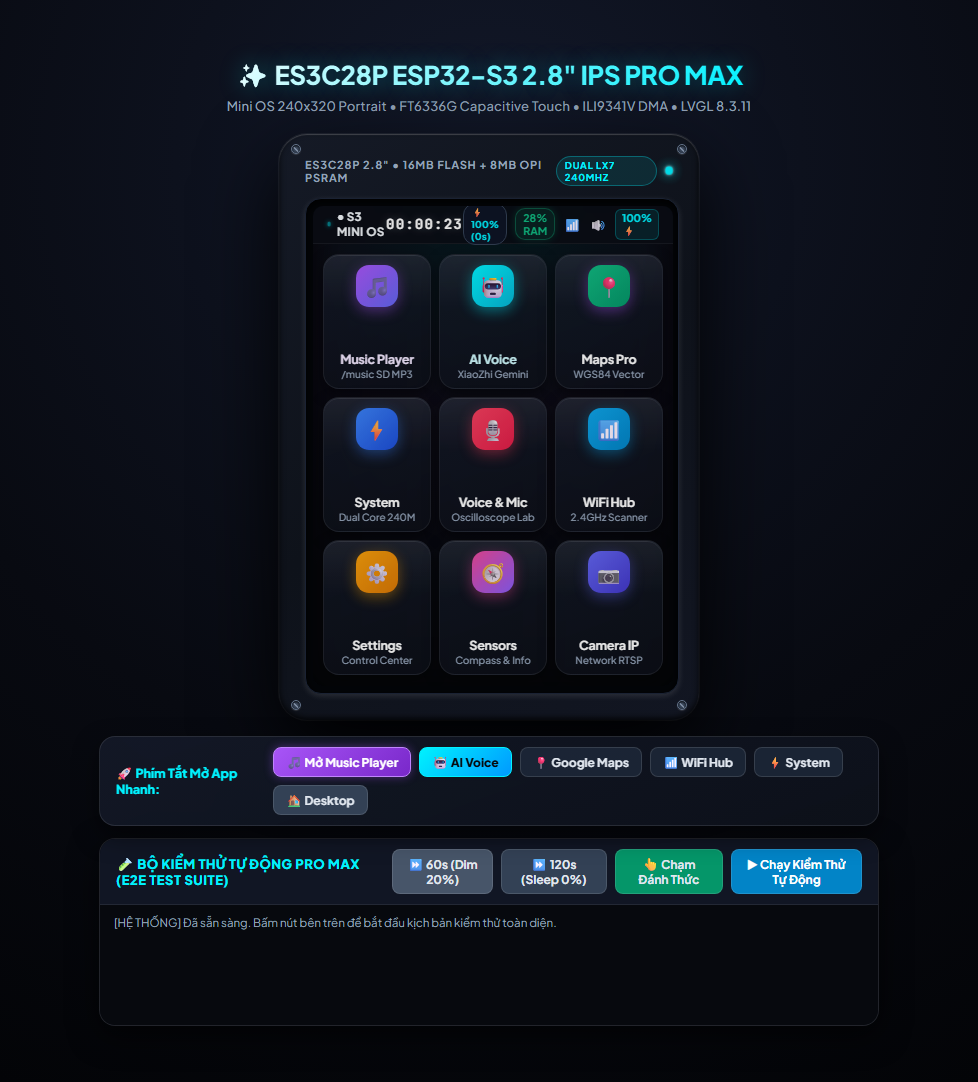
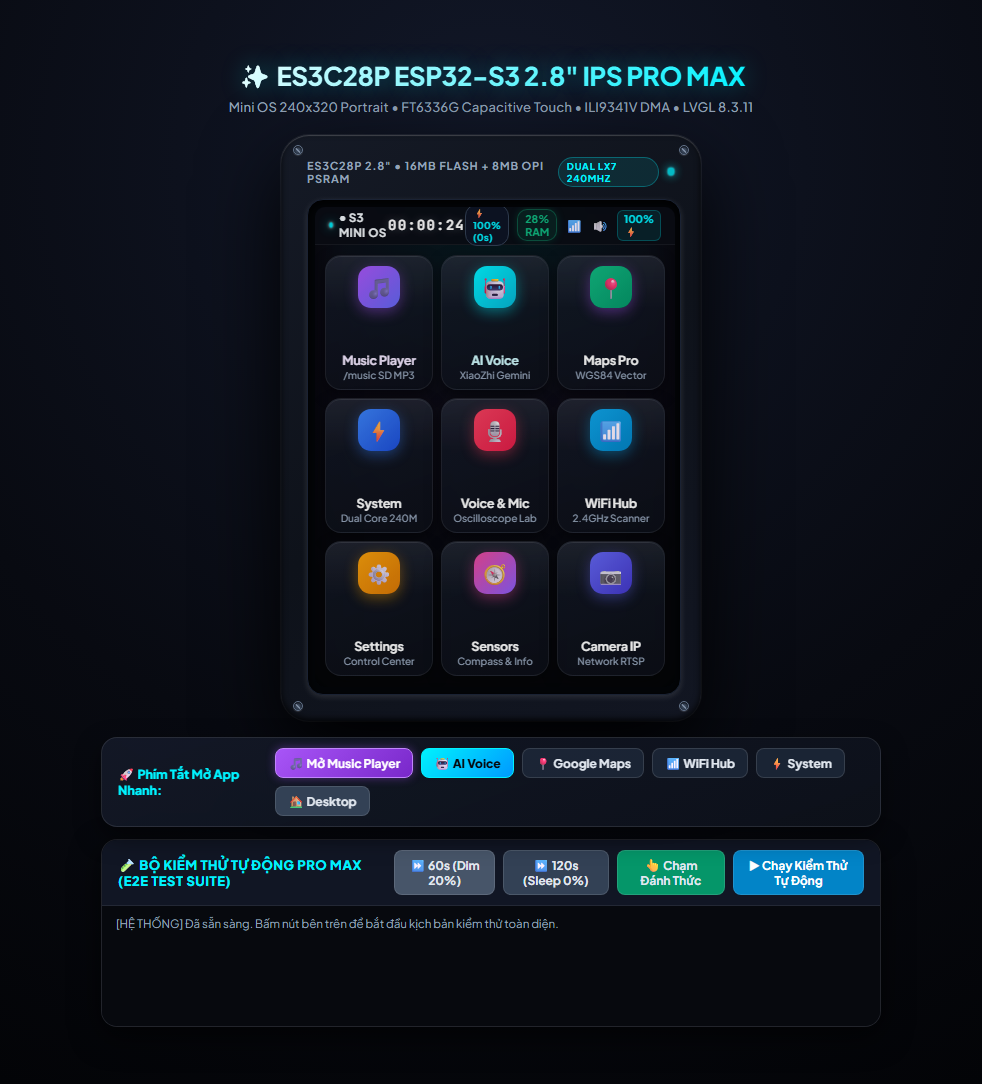
Fix vinyl rotation and LVGL transparency
Enable LVGL screen transparency for transform-angle rendering and keep the music vinyl rotation anchored at its center. This updates the music app to refresh UI state after track and playback actions, resets rotation state cleanly on close, and avoids angle overflow while animating. The display driver configuration now enforces RGB565 output while allowing transparent screen transforms, and the simulator screenshots were refreshed to match the updated UI.

diff --git a/src/apps/music_app.cpp b/src/apps/music_app.cpp
@@ -44,8 +44,8 @@ static void anim_vinyl_rotate_cb(void *var, int32_t v)
 {
     if (vinyl_disc)
     {
-        current_vinyl_angle = v;
-        lv_obj_set_style_transform_angle(vinyl_disc, (int16_t)v, 0);
+        current_vinyl_angle = v % 3600;
+        lv_obj_set_style_transform_angle(vinyl_disc, (int16_t)current_vinyl_angle, 0);
     }
 }
 
@@ -58,24 +58,28 @@ static void track_item_click_cb(lv_event_t *e)
     {
         lv_obj_add_flag(playlist_modal, LV_OBJ_FLAG_HIDDEN);
     }
+    music_app_update();
 }
 
 /* Callback bấm nút Play / Pause */
 static void play_btn_click_cb(lv_event_t *e)
 {
     if (!music_player_toggle_play()) show_command_error();
+    music_app_update();
 }
 
 /* Callback bấm nút Next */
 static void next_btn_click_cb(lv_event_t *e)
 {
     if (!music_player_next()) show_command_error();
+    music_app_update();
 }
 
 /* Callback bấm nút Previous */
 static void prev_btn_click_cb(lv_event_t *e)
 {
     if (!music_player_prev()) show_command_error();
+    music_app_update();
 }
 
 /* Callback mở / đóng danh sách phát nhạc */
@@ -147,16 +151,21 @@ void music_app_open(lv_obj_t *parent)
     lv_obj_set_style_pad_all(player_card, 6, 0);
     lv_obj_clear_flag(player_card, LV_OBJ_FLAG_SCROLLABLE);
 
-    // 1. ARTWORK ĐĨA THAN QUAY BÊN TRÁI (Size 88x88)
+    // 1. ARTWORK ĐĨA THAN QUAY BÊN TRÁI (Size 88x88 hoặc 76x76)
+    const lv_coord_t disc_size = portrait ? 76 : 88;
     vinyl_disc = lv_obj_create(player_card);
-    lv_obj_set_size(vinyl_disc, portrait ? 76 : 88, portrait ? 76 : 88);
+    lv_obj_set_size(vinyl_disc, disc_size, disc_size);
     lv_obj_align(vinyl_disc, portrait ? LV_ALIGN_TOP_MID : LV_ALIGN_LEFT_MID,
                  portrait ? 0 : 8, portrait ? 2 : 0);
-    lv_obj_set_style_radius(vinyl_disc, portrait ? 38 : 44, 0);
+    lv_obj_set_style_radius(vinyl_disc, disc_size / 2, 0);
     lv_obj_set_style_bg_color(vinyl_disc, lv_color_hex(0x0C0E14), 0);
     lv_obj_set_style_border_color(vinyl_disc, lv_color_hex(0x2A3346), 0);
     lv_obj_set_style_border_width(vinyl_disc, 3, 0);
     lv_obj_clear_flag(vinyl_disc, LV_OBJ_FLAG_SCROLLABLE);
+
+    // Đặt pivot xoay đúng tâm vinyl_disc theo kích thước 76/88 px
+    lv_obj_set_style_transform_pivot_x(vinyl_disc, disc_size / 2, 0);
+    lv_obj_set_style_transform_pivot_y(vinyl_disc, disc_size / 2, 0);
 
     // Vòng rãnh đĩa than
     lv_obj_t *groove = lv_obj_create(vinyl_disc);
@@ -435,6 +444,8 @@ void music_app_open(lv_obj_t *parent)
         lv_obj_set_style_text_font(btn, UI_FONT_12, 0);
         lv_obj_add_event_cb(btn, track_item_click_cb, LV_EVENT_CLICKED, (void *)(uintptr_t)i);
     }
+
+    music_app_update();
 }
 
 /* Đóng và giải phóng tài nguyên ứng dụng Music Player */
@@ -446,6 +457,7 @@ void music_app_close(void)
         lv_anim_del(vinyl_disc, anim_vinyl_rotate_cb);
         vinyl_anim_running = false;
     }
+    current_vinyl_angle = 0;
     main_container = nullptr;
     player_card = nullptr;
     playlist_modal = nullptr;
@@ -475,6 +487,7 @@ void music_app_update(void)
     {
         if (!vinyl_anim_running && vinyl_disc)
         {
+            lv_anim_set_values(&vinyl_anim, current_vinyl_angle, current_vinyl_angle + 3600);
             lv_anim_start(&vinyl_anim);
             vinyl_anim_running = true;
         }
@@ -485,6 +498,7 @@ void music_app_update(void)
         {
             lv_anim_del(vinyl_disc, anim_vinyl_rotate_cb);
             vinyl_anim_running = false;
+            current_vinyl_angle = current_vinyl_angle % 3600;
         }
     }
 

diff --git a/src/display/lvgl_port.cpp b/src/display/lvgl_port.cpp
@@ -35,6 +35,7 @@ static DisplayDiagnosticState display_diagnostic = {
 static const char *display_color_config_source = "BOARD_PROFILE";
 
 static_assert(LV_COLOR_DEPTH == 16, "LVGL flush requires RGB565");
+static_assert(LV_COLOR_SCREEN_TRANSP == 1, "LVGL transform requires LV_COLOR_SCREEN_TRANSP 1");
 static_assert(LV_COLOR_16_SWAP == 0, "LVGL RGB565 must use native byte order");
 static_assert(sizeof(lv_color_t) == sizeof(lgfx::rgb565_t), "LVGL/LovyanGFX RGB565 size mismatch");
 static_assert(alignof(lv_color_t) >= alignof(lgfx::rgb565_t), "LVGL/LovyanGFX RGB565 alignment mismatch");
@@ -258,13 +259,16 @@ bool lvgl_port_init(void)
     // Khởi tạo Draw Buffer (Hỗ trợ Double-Buffering nếu có disp_buf2)
     lv_disp_draw_buf_init(&draw_buf, disp_buf1, disp_buf2, DISP_HOR_RES * DISP_BUF_LINES);
 
-    // Cấu hình Display Driver
+    // Cấu hình Display Driver (Giữ đầu ra RGB565, không bật screen_transp trên display driver)
     lv_disp_drv_init(&disp_drv);
     disp_drv.hor_res = DISP_HOR_RES;
     disp_drv.ver_res = DISP_VER_RES;
     disp_drv.flush_cb = disp_flush_cb;
     disp_drv.draw_buf = &draw_buf;
+    disp_drv.screen_transp = 0;
     lv_disp_t *display = lv_disp_drv_register(&disp_drv);
+    lv_disp_set_bg_opa(display, LV_OPA_COVER);
+    lv_disp_set_bg_color(display, lv_color_hex(COLOR_OS_BG));
 
     // Be Vietnam Pro is the default UI font. Its descriptor falls back to
     // Montserrat only for LVGL symbols absent from the Vietnamese font.

diff --git a/include/lv_conf.h b/include/lv_conf.h
@@ -26,6 +26,10 @@
 /* 1: Enable 1-bit transparency (chroma keying) */
 #define LV_COLOR_CHROMA_KEY lv_color_hex(0x00FF00)
 
+/* 1: Enable screen transparency / layer alpha rendering for transform angles (rotating vinyl).
+ * Màn hình đầu ra thực tế vẫn là RGB565 (LV_COLOR_DEPTH 16). */
+#define LV_COLOR_SCREEN_TRANSP 1
+
 /*=========================
    MEMORY SETTINGS
  *=========================*/
